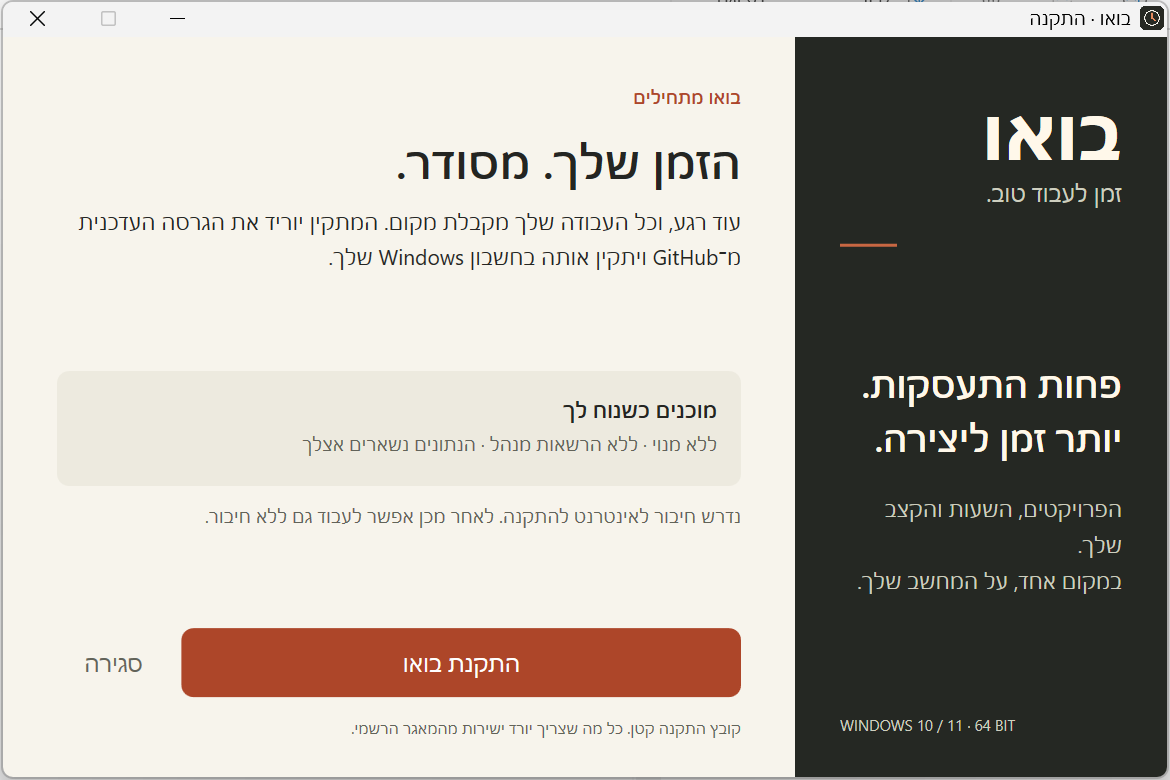
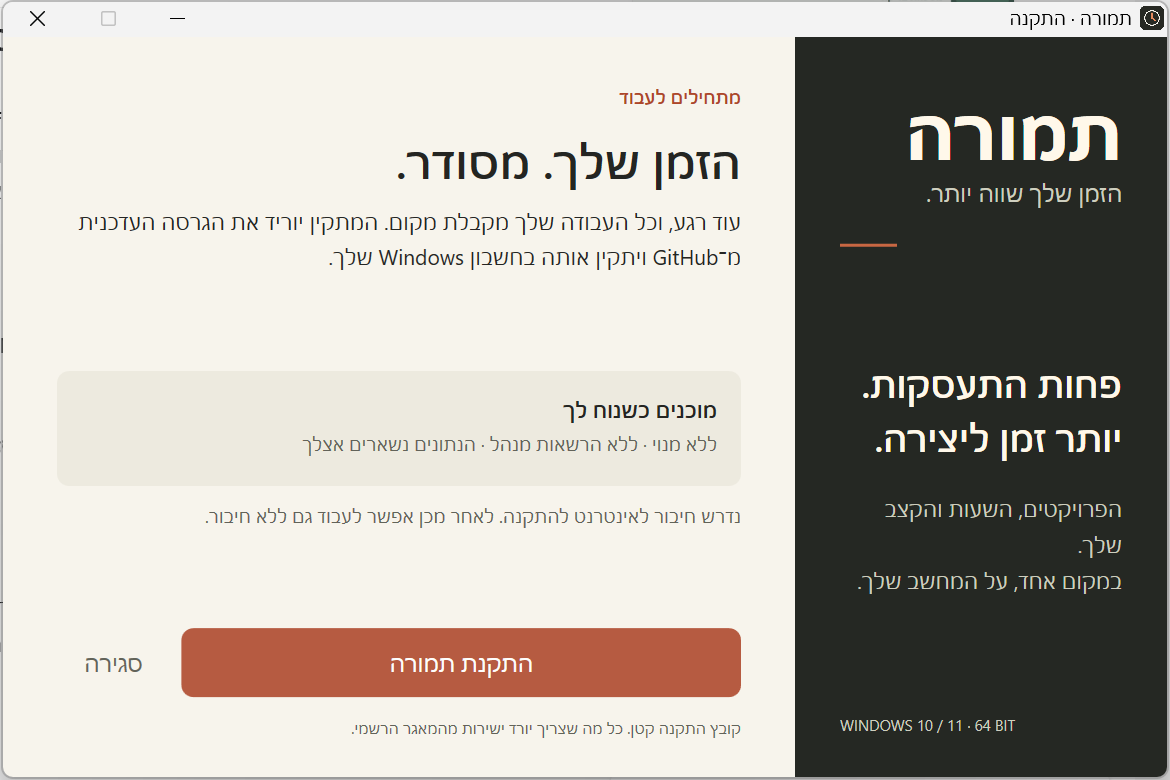
Rename the app to Temura while preserving installation and data compatibility

diff --git a/installer/Installer.xaml b/installer/Installer.xaml
@@ -1,6 +1,6 @@
 <Window xmlns="http://schemas.microsoft.com/winfx/2006/xaml/presentation"
         xmlns:x="http://schemas.microsoft.com/winfx/2006/xaml"
-        Title="בואו · התקנה" Width="780" Height="520" ResizeMode="CanMinimize"
+        Title="תמורה · התקנה" Width="780" Height="520" ResizeMode="CanMinimize"
         WindowStartupLocation="CenterScreen" Background="#F7F4EC" FontFamily="Segoe UI"
         FlowDirection="RightToLeft" Foreground="#242522">
   <Window.Resources>
@@ -25,8 +25,8 @@
     <Border Background="#252823" Padding="30,30,30,28">
       <Grid>
         <Grid.RowDefinitions><RowDefinition Height="Auto"/><RowDefinition Height="*"/><RowDefinition Height="Auto"/></Grid.RowDefinitions>
-        <StackPanel><TextBlock Text="בואו" Foreground="#FFF8EA" FontSize="48" FontWeight="Bold"/>
-          <TextBlock Text="זמן לעבוד טוב." Foreground="#CECFBF" FontSize="15" Margin="0,0,0,24"/>
+        <StackPanel><TextBlock Text="תמורה" Foreground="#FFF8EA" FontSize="48" FontWeight="Bold"/>
+          <TextBlock Text="הזמן שלך שווה יותר." Foreground="#CECFBF" FontSize="15" Margin="0,0,0,24"/>
           <Border Height="2" Background="#C86742" Width="38" HorizontalAlignment="Right"/>
         </StackPanel>
         <StackPanel Grid.Row="1" VerticalAlignment="Center">
@@ -38,7 +38,7 @@
     </Border>
     <Grid Grid.Column="1" Margin="36,32,36,26">
       <Grid.RowDefinitions><RowDefinition Height="Auto"/><RowDefinition Height="Auto"/><RowDefinition Height="*"/><RowDefinition Height="Auto"/></Grid.RowDefinitions>
-      <TextBlock Text="בואו מתחילים" Foreground="#AD4629" FontSize="12" FontWeight="SemiBold"/>
+      <TextBlock Text="מתחילים לעבוד" Foreground="#AD4629" FontSize="12" FontWeight="SemiBold"/>
       <StackPanel Grid.Row="1" Margin="0,14,0,0">
         <TextBlock x:Name="Heading" Text="הזמן שלך. מסודר." FontSize="30" FontWeight="SemiBold"/>
         <TextBlock x:Name="Description" Text="עוד רגע, וכל העבודה שלך מקבלת מקום. המתקין יוריד את הגרסה העדכנית מ־GitHub ויתקין אותה בחשבון Windows שלך." FontSize="14" TextWrapping="Wrap" LineHeight="23" Margin="0,12,0,0"/>
@@ -54,7 +54,7 @@
       </StackPanel>
       <StackPanel Grid.Row="3">
         <Grid><Grid.ColumnDefinitions><ColumnDefinition Width="*"/><ColumnDefinition Width="Auto"/></Grid.ColumnDefinitions>
-          <Button x:Name="Primary" Content="התקנת בואו" AutomationProperties.AutomationId="InstallButton" IsDefault="True"/>
+          <Button x:Name="Primary" Content="התקנת תמורה" AutomationProperties.AutomationId="InstallButton" IsDefault="True"/>
           <Button x:Name="Secondary" Grid.Column="1" Content="סגירה" AutomationProperties.AutomationId="CancelButton" Background="Transparent" Foreground="#626359" Padding="18,13" Margin="8,0,0,0"/>
         </Grid>
         <TextBlock Text="קובץ התקנה קטן. כל מה שצריך יורד ישירות מהמאגר הרשמי." TextWrapping="Wrap" Foreground="#626359" FontSize="10" Margin="0,14,0,0"/>

diff --git a/src/App.jsx b/src/App.jsx
@@ -69,8 +69,8 @@ export default function App() {
   }, [toast]);
   useEffect(() => {
     document.title = state?.timer
-      ? `${hms(elapsed(state.timer, now))} · בואו`
-      : "בואו · זמן לעבוד טוב";
+      ? `${hms(elapsed(state.timer, now))} · תמורה`
+      : "תמורה · מעקב זמן עבודה";
   }, [state?.timer, now]);
   const mutate = useCallback(async (fn) => {
     const s = await change(fn);
@@ -189,8 +189,8 @@ export default function App() {
       </a>
       <aside className="sidebar">
         <div className="brand">
-          בואו<span>.</span>
-          <small>זמן לעבוד טוב</small>
+          תמורה<span>.</span>
+          <small>מעקב זמן עבודה</small>
         </div>
         <nav aria-label="ניווט ראשי">
           {NAV.map(([key, label, Icon]) => (
@@ -281,7 +281,7 @@ export default function App() {
         {page === "reports" && <Reports {...common} />}
         {page === "settings" && <Settings {...common} />}
         <footer className="main-footer">
-          <span>בואו נעשה זמן לדברים החשובים.</span>
+          <span>הזמן שלך. העבודה שלך. התמורה שלך.</span>
           <span>שעון ישראל · שבוע מתחיל ביום ראשון</span>
         </footer>
       </main>

diff --git a/src/FocusTools.jsx b/src/FocusTools.jsx
@@ -71,7 +71,7 @@ function FullClockScreen({
     >
       <header className="focus-top">
         <span className="focus-brand">
-          בואו<span>.</span>
+          תמורה<span>.</span>
         </span>
         <span className="focus-state">
           <i className={t?.runningSince != null ? "is-running" : ""} />
@@ -237,7 +237,7 @@ export default function FocusTools({ state, mutate, notify, editEntry }) {
       currentWindow.current = child;
       child.document.documentElement.lang = "he";
       child.document.documentElement.dir = "rtl";
-      child.document.title = "בואו · צג צף";
+      child.document.title = "תמורה · צג צף";
       child.document.body.className = "pip-body";
       // Linked styles keep absolute asset URLs and local fonts working under the production CSP.
       document

diff --git a/src/PwaInstall.jsx b/src/PwaInstall.jsx
@@ -18,7 +18,7 @@ export default function PwaInstall() {
   return (
     <section className="surface">
       <MonitorDown className="section-icon" />
-      <h2>בואו, גם בלי לשונית</h2>
+      <h2>תמורה, גם בלי לשונית</h2>
       <p>
         בגרסת ההפעלה ניתן להתקין דרך תפריט Chrome או Edge: התקנת אפליקציה. אחרי
         פתיחה ראשונה, הקבצים נשמרים לשימוש גם בלי רשת. הנתונים נשארים באותו
@@ -43,7 +43,7 @@ export default function PwaInstall() {
             }
           }}
         >
-          התקנת בואו
+          התקנת תמורה
         </Button>
       )}
       {message && <p role="status">{message}</p>}

diff --git a/index.html b/index.html
@@ -6,11 +6,11 @@
     <meta name="theme-color" content="#272923" />
     <meta
       name="description"
-      content="בואו — מעקב זמן אישי לפרויקטים וללקוחות"
+      content="תמורה — מעקב זמן אישי לפרויקטים וללקוחות"
     />
     <link rel="icon" type="image/svg+xml" href="/icon.svg" />
     <link rel="manifest" href="/manifest.webmanifest" />
-    <title>בואו · זמן לעבוד טוב</title>
+    <title>תמורה · מעקב זמן עבודה</title>
   </head>
   <body>
     <div id="root"></div>

diff --git a/src/Timer.jsx b/src/Timer.jsx
@@ -77,7 +77,7 @@ export default function Timer({
           </>
         ) : (
           <>
-            <h2>בואו נתחיל משהו טוב.</h2>
+            <h2>מתחילים משהו טוב.</h2>
             {selected ? (
               <div className="timer-fields">
                 <label>

diff --git a/src/CompactClock.jsx b/src/CompactClock.jsx
@@ -102,7 +102,7 @@ export default function CompactClock({
     >
       <header className="compact-header">
         <span className="compact-brand">
-          בואו<span>.</span>
+          תמורה<span>.</span>
         </span>
         <div className="compact-tools">
           <button

diff --git a/installer/Installer.cs b/installer/Installer.cs
@@ -100,7 +100,7 @@ namespace BouInstaller
             bool first;
             using (var mutex = new Mutex(true, @"Local\BouTimeBootstrapper", out first))
             {
-                if (!first) { MessageBox.Show("מתקין בואו כבר פתוח.", "בואו"); return; }
+                if (!first) { MessageBox.Show("מתקין תמורה כבר פתוח.", "תמורה"); return; }
                 try
                 {
                     ServicePointManager.SecurityProtocol = SecurityProtocolType.Tls12;
@@ -109,7 +109,7 @@ namespace BouInstaller
                     installer.CreateWindow();
                     app.Run(installer.window);
                 }
-                catch (Exception) { MessageBox.Show("לא ניתן לפתוח את המתקין. נסה להוריד אותו שוב מעמוד הגרסאות ב־GitHub.", "בואו"); }
+                catch (Exception) { MessageBox.Show("לא ניתן לפתוח את המתקין. נסה להוריד אותו שוב מעמוד הגרסאות ב־GitHub.", "תמורה"); }
             }
         }
 
@@ -131,7 +131,7 @@ namespace BouInstaller
                 if (completed)
                 {
                     try { Process.Start(new ProcessStartInfo(Path.Combine(directory, "Bou Time.exe")) { UseShellExecute = true }); window.Close(); }
-                    catch (Exception) { detail.Text = "לא ניתן לפתוח את האפליקציה. אפשר לפתוח את בואו מתפריט ההתחלה."; }
+                    catch (Exception) { detail.Text = "לא ניתן לפתוח את האפליקציה. אפשר לפתוח את תמורה מתפריט ההתחלה."; }
                 }
                 else await Install();
             };
@@ -164,11 +164,11 @@ namespace BouInstaller
             string scratch = null;
             try
             {
-                if (Payload.IsRunning(directory)) throw new InvalidOperationException("בואו פתוחה. סגור את האפליקציה ונסה שוב; זמן המדידה נשמר.");
+                if (Payload.IsRunning(directory)) throw new InvalidOperationException("תמורה פתוחה. סגור את האפליקציה ונסה שוב; זמן המדידה נשמר.");
                 heading.Text = "מפנים מקום לעבודה טובה.";
                 description.Text = "הגרסה הרשמית בדרך למחשב שלך. נשמור על הנתונים הקיימים גם אם זו התקנה חוזרת.";
                 status.Text = "1 מתוך 3 · בודקים את הגרסה העדכנית";
-                detail.Text = "מתחברים למאגר של בואו ב־GitHub…";
+                detail.Text = "מתחברים למאגר של תמורה ב־GitHub…";
                 progress.Visibility = Visibility.Visible;
                 progress.IsIndeterminate = true;
                 Release release;
@@ -196,7 +196,7 @@ namespace BouInstaller
                             }
                         }
                     }
-                    status.Text = "1 מתוך 3 · מורידים את בואו " + release.version;
+                    status.Text = "1 מתוך 3 · מורידים את תמורה " + release.version;
                     progress.IsIndeterminate = false;
                     progress.Value = 0;
                     scratch = Path.Combine(Path.GetTempPath(), "BouInstall-" + Guid.NewGuid().ToString("N"));
@@ -232,7 +232,7 @@ namespace BouInstaller
                     progress.IsIndeterminate = true;
                     await Task.Run(() => Payload.Verify(payload, release));
                     token.ThrowIfCancellationRequested();
-                    if (Payload.IsRunning(directory)) throw new InvalidOperationException("בואו פתוחה. סגור את האפליקציה ונסה שוב.");
+                    if (Payload.IsRunning(directory)) throw new InvalidOperationException("תמורה פתוחה. סגור את האפליקציה ונסה שוב.");
                     installing = true;
                     secondary.IsEnabled = false;
                     status.Text = "3 מתוך 3 · מתקינים בחשבון שלך";
@@ -247,12 +247,12 @@ namespace BouInstaller
                     if (!File.Exists(Path.Combine(directory, "Bou Time.exe"))) throw new InvalidOperationException("לא נמצא קובץ האפליקציה לאחר ההתקנה.");
                     completed = true;
                     heading.Text = "יש לך זמן לדברים הטובים.";
-                    description.Text = "בואו מותקנת ומוכנה. אפשר להתחיל בפרויקט הראשון שלך, או לייבא גיבוי קיים מתוך ההגדרות.";
+                    description.Text = "תמורה מותקנת ומוכנה. אפשר להתחיל בפרויקט הראשון שלך, או לייבא גיבוי קיים מתוך ההגדרות.";
                     status.Text = "ההתקנה הושלמה בהצלחה";
                     detail.Text = "גרסה " + release.version + " · קיצור דרך נוסף לתפריט ההתחלה ולשולחן העבודה";
                     progress.IsIndeterminate = false;
                     progress.Value = 100;
-                    primary.Content = "פתיחת בואו";
+                    primary.Content = "פתיחת תמורה";
                 }
             }
             catch (OperationCanceledException)

diff --git a/tests/installer-e2e.py b/tests/installer-e2e.py
@@ -38,7 +38,7 @@ def fingerprints():
 before = fingerprints()
 process = subprocess.Popen([str(Path(args.installer).resolve())], env=env)
 app = Application(backend="uia").connect(process=process.pid, timeout=20)
-window = app.window(title="בואו · התקנה")
+window = app.window(title="תמורה · התקנה")
 window.wait("visible", timeout=20)
 status = window.child_window(auto_id="Status")
 primary = window.child_window(auto_id="InstallButton")
@@ -46,7 +46,7 @@ secondary = window.child_window(auto_id="CancelButton")
 try:
     assert status.window_text() == "מוכנים כשנוח לך"
     primary.invoke()
-    wait_until(60, 0.1, lambda: "מורידים את בואו" in status.window_text())
+    wait_until(60, 0.1, lambda: "מורידים את תמורה" in status.window_text())
     secondary.invoke()
     wait_until(20, 0.2, lambda: status.window_text() == "ההורדה בוטלה")
     assert primary.is_enabled()
@@ -90,7 +90,7 @@ try:
 
     wait_until(30, 0.2, lambda: launched() is not None)
     application = Application(backend="uia").connect(process=launched(), timeout=20)
-    main = application.window(title_re=".*בואו.*")
+    main = application.window(title_re=".*תמורה.*")
     main.wait("visible", timeout=30)
     main.close()
     assert before == fingerprints(), "Opening with an isolated profile changed user data"

diff --git a/README.md b/README.md
@@ -1,24 +1,24 @@
 <div dir="rtl">
 
-# בואו · זמן לעבוד טוב
+# תמורה · מעקב זמן עבודה
 
 אפליקציה אישית בעברית למעקב זמן עבודה, לקוחות ופרויקטים. עם חלון צף זעיר שנשאר מעל החלונות, דוחות ושמירה מקומית במחשב שלך.
 
 ## התקנה ב־Windows
 
-### [⬇ הורדת המתקין הקטן של בואו](https://github.com/huxhkuh/bou-time/releases/latest/download/Bou-Install.exe)
+### [⬇ הורדת המתקין הקטן של תמורה](https://github.com/huxhkuh/bou-time/releases/latest/download/Temura-Install.exe)
 
-1. מורידים ופותחים את **Bou-Install.exe** — קובץ קטן של כ־38 KB.
-2. לוחצים **התקנת בואו**. המתקין מוריד את הגרסה העדכנית מ־GitHub, בודק את הקובץ ומתקין בחשבון Windows הנוכחי, ללא בקשת הרשאות מנהל.
-3. לוחצים **פתיחת בואו**. קיצור דרך נוסף לשולחן העבודה ולתפריט ההתחלה.
+1. מורידים ופותחים את **Temura-Install.exe** — קובץ קטן של כ־38 KB.
+2. לוחצים **התקנת תמורה**. המתקין מוריד את הגרסה העדכנית מ־GitHub, בודק את הקובץ ומתקין בחשבון Windows הנוכחי, ללא בקשת הרשאות מנהל.
+3. לוחצים **פתיחת תמורה**. קיצור דרך נוסף לשולחן העבודה ולתפריט ההתחלה.
 
 נדרש Windows 10/11 עם מעבד x64 וחיבור לאינטרנט להתקנה. לאחר ההתקנה אפשר לעבוד ללא חיבור. אין צורך ב־Node.js, בחשבון משתמש באפליקציה או בשירות בתשלום.
 
 **[כל הגרסאות וההורדות](https://github.com/huxhkuh/bou-time/releases/latest)** — שם זמינים גם המתקין המלא להתקנה ללא חיבור (`Setup.exe`), גרסה ללא התקנה (`Portable.exe`) וקובץ בדיקות תקינות (`SHA256SUMS.txt`).
 
-הקבצים עדיין אינם חתומים בתעודת מפרסם, ולכן Windows עשוי להציג אזהרת מפרסם לא מזוהה. אין צורך לשנות את הגדרות האבטחה. עדכון מתבצע בהפעלה חוזרת של המתקין הקטן אחרי סגירת בואו; אין עדכון אוטומטי ברקע.
+הקבצים עדיין אינם חתומים בתעודת מפרסם, ולכן Windows עשוי להציג אזהרת מפרסם לא מזוהה. אין צורך לשנות את הגדרות האבטחה. עדכון מתבצע בהפעלה חוזרת של המתקין הקטן אחרי סגירת תמורה; אין עדכון אוטומטי ברקע.
 
-![המתקין של בואו](docs/images/installer.png)
+![המתקין של תמורה](docs/images/installer.png)
 
 ## מה יש בפנים
 
@@ -63,3 +63,5 @@ powershell -ExecutionPolicy Bypass -File scripts/test-installer.ps1
 טכנולוגיות: React, Vite, Electron, IndexedDB; מתקין קטן ב־WPF ו־.NET Framework, ומתקין התוכנה ב־NSIS. Windows ARM ומערכות Windows ישנות לא נבדקו.
 
 </div>
+
+שם האפליקציה עודכן מבואו לתמורה בגרסה 1.2.0. כתובת המאגר, מזהי האחסון ושמות קובצי התוכנה הפנימיים נשמרו לצורך תאימות להתקנות ולגיבויים קיימים.

diff --git a/docs/RELEASING.md b/docs/RELEASING.md
@@ -7,7 +7,7 @@ Requires Windows 10/11 x64, Node.js 22.12+ (or a supported newer version), npm, 
 3. Run `npm run build:windows`. Artifacts are written to `../windows`.
 4. Run `powershell -ExecutionPolicy Bypass -File scripts/build-installer.ps1`, then `powershell -ExecutionPolicy Bypass -File scripts/prepare-release.ps1`.
 5. Review source and `git diff`, run `npm audit`, commit, push, and create the matching `vX.Y.Z` tag. Do not publish personal data, backups, test profiles, `.env` files or credentials.
-6. Create a **draft release** for that tag, attaching these five assets together: `Bou-Install.exe`, `Bou-Time-X.Y.Z-x64-Setup.exe`, `Bou-Time-X.Y.Z-x64-Portable.exe`, `windows-release.json`, and `SHA256SUMS.txt`. Review the manifest version, URL, size and SHA-256 against the actual setup file.
+6. Create a **draft release** for that tag, attaching these six assets together: `Temura-Install.exe`, `Bou-Install.exe`, `Bou-Time-X.Y.Z-x64-Setup.exe`, `Bou-Time-X.Y.Z-x64-Portable.exe`, `windows-release.json`, and `SHA256SUMS.txt`. Review the manifest version, URL, size and SHA-256 against the actual setup file.
 7. Publish the draft as the latest stable release only after all uploads succeed. Test the small installer against that public release. Never replace a versioned payload after publishing; issue a new version instead.
 
 The small installer always requests the [latest release asset](https://docs.github.com/en/repositories/releasing-projects-on-github/linking-to-releases), validates the manifest and payload hash, then runs the [NSIS installer](https://www.electron.build/nsis/) with `/S /currentuser`. The payload is installed into `%LOCALAPPDATA%\Programs\Bou Time`, or an existing per-user install location from NSIS's `HKCU\Software\3ead69c5-dfef-56f1-9730-ce3cff6c6279` registry key. No elevation is requested. Application data stays under `%APPDATA%\BouTime`; uninstall does not delete it.
@@ -21,3 +21,7 @@ The graphical bootstrapper targets .NET Framework 4.x APIs available on supporte
 ## Graphical installation test (opt-in)
 
 `tests/installer-e2e.py` requires Python, `pywinauto` and `psutil`. Run it in a disposable Windows user account or test machine with `python tests/installer-e2e.py --installer ../windows/Bou-Install.exe --install`. This performs a **real per-user installation or update** and leaves the application installed. It verifies download cancellation, retry, installation, unchanged existing application data and launching with an isolated test profile. The final `--install` flag is required to make this side effect explicit. Screenshots are saved to the temporary directory reported by the test.
+
+## Brand identity and upgrade compatibility
+
+Version 1.2.0 changes the public name to תמורה (Temura). Keep appId, executableName, the bou://app origin, IndexedDB names, AppData path and existing versioned payload filename pattern stable. Existing bootstrapper copies validate that exact payload URL and launch Bou Time.exe. Both bootstrapper download names contain the same newly branded binary; the original name stays available as a compatibility link.
